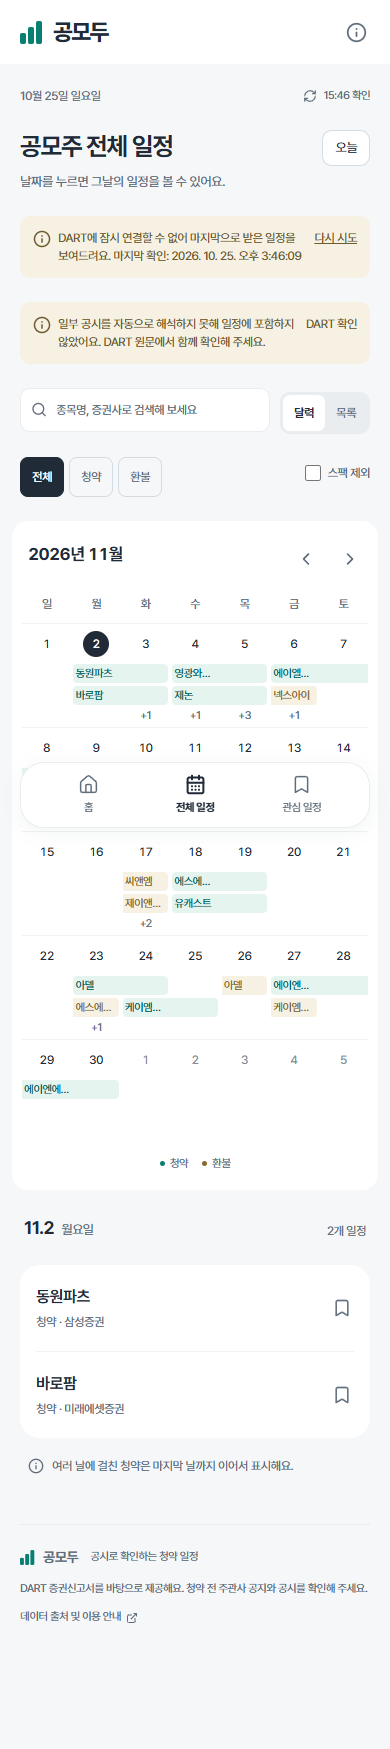
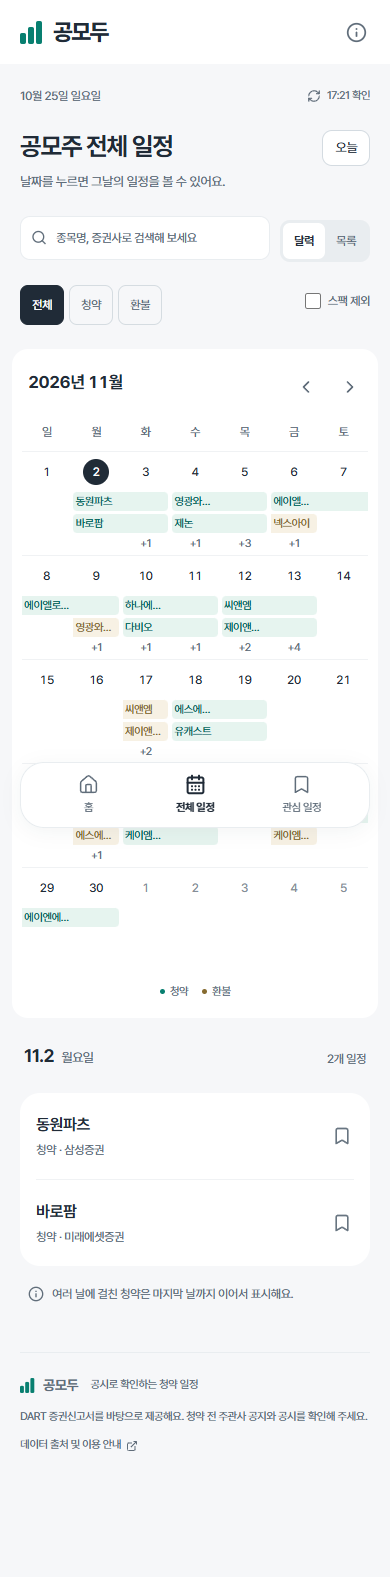
[Docs] 공모 교차 검증·화면 캡처·제출 상태 기록

diff --git a/docs/DART-DATA.md b/docs/DART-DATA.md
@@ -16,23 +16,23 @@
 
 `last_reprt_at=Y`로 최종보고서를 검색해요. 주요정보의 접수번호가 최종 신고서와 같을 때만 그 정보를 사용해요. 실 API에서 ‘발행조건확정’ 신고서와 주요정보의 접수번호가 다른 사례를 확인했어요. 이때 이전 요약을 새 공시에 붙이지 않고, **최종 신고서 원문의 요약 표를 직접 읽어요.** 정정 전·후 표가 함께 있는 경우 마지막 완전한 요약 표를 사용해요. 표를 일관되게 읽지 못하면 원문 확인 대상으로 제외해요.
 
-회사 고유번호와 확인된 최초 제출일로 공모 회차 ID를 만들어요. 정정으로 청약 날짜·접수번호가 바뀌어도 관심 저장 ID와 내보내기 UID는 유지해요. 최초 제출일을 확인하지 못한 정정 공시는 다른 회차와 섞지 않고 제외해요. 기존 회사명만 일치한다고 서로 다른 공모를 연결하지 않아요.
+회사 고유번호와 확인된 최초 제출일로 공모 회차 ID를 만들어요. 정정으로 청약 날짜·접수번호가 바뀌어도 관심 저장 ID는 유지해요. 최초 제출일을 확인하지 못한 정정 공시는 다른 회차와 섞지 않고 제외해요. 기존 회사명만 일치한다고 서로 다른 공모를 연결하지 않아요.
 
 철회 표시 또는 후속 정정 대기 표시가 있는 신고서는 진행 중인 청약으로 노출하지 않아요. 저장된 일정이 최신 결과에서 사라지면 기기 기록을 유지하되 원본 재확인을 안내해요. 앱이 철회 사유까지 판정하는 것은 아니에요.
 
 ## 표시 규칙
 
-- 날짜는 한국 기준이에요. 청약 종료일을 포함해 보여주되 내부 모델과 ICS의 종료일은 다음 날로 저장해요.
-- 원문에 명시된 전체 날짜만 파싱해요. 시작일/종료일이 불명확하거나 상충하면 추정하지 않아요.
+- 날짜는 한국 기준이에요. 청약 종료일을 포함해 보여주되 내부 모델의 종료일은 다음 날로 저장해요.
+- 원문에 명시된 날짜를 파싱해요. `2026.10.22(목)~10.23(금)`처럼 앞에 적힌 연도가 같은 범위에 적용되는 경우는 명확한 월·일을 확인해 읽어요. 시작일/종료일이 불명확하거나 상충하면 추정하지 않아요.
 - `pymd`는 **납입기일**로 표시해요. 값만 복사해 환불일로 바꾸지 않아요. 환불일·상장 예정일은 주요정보 API의 날짜 필드 대신 원문의 명시적 문장·표에서 확인해요. ‘초과 청약증거금은 주금납입기일 당일에 반환’이라고 명시된 경우에만 납입일과 연결하며 `payment-reference` 근거를 남겨요.
 - `slprc`는 **모집(매출)가액**으로 표시해요. 희망 공모가·확정 공모가·최소 증거금으로 일괄 해석하지 않아요. 단위와 확정 여부는 원문에서 확인해야 해요.
 - 원문의 상장공모 근거를 확인해요. 기존 상장사의 주주배정·제3자배정 등은 IPO로 노출하지 않아요.
 - 이전 Google 캘린더 관심 기록은 삭제하지 않아요. ‘이전 출처’라고 구분하며 DART 검증 데이터로 다시 표시하지 않아요.
-- 새 ICS 내보내기에는 공시 접수번호와 DART 원문 URL을 포함해요. 파일에는 정정이 자동 반영되지 않아요.
+- 캘린더 파일 내보내기는 실기기 피드백으로 출시 화면에서 제거했어요.
 
 최종 ‘발행조건확정’ 공시의 ZIP은 변경 부분만 담은 사례가 있어요. 모집 절차 전문이 없으면 회사별 공시 이력을 `last_reprt_at=N`으로 조회해 최초 제출일이 같은 공모의 가장 최근 전문을 찾아요(최대 6개 후보). 이전 공시의 명시적 날짜는 청약기간이 현재와 같을 때만 보완하고, 최신 공시에 해당 날짜 변경·미정 문구가 있으면 보완하지 않아요. 환불을 납입기일과 연결하는 명시적 문구는 최신 납입기일을 사용해요. 근거 접수번호·URL·문장을 이전 원문 그대로 보존해 최신 신고서에서 읽은 것처럼 바꾸지 않아요.
 
-모집 본문 구간의 표 위치를 기록해 정정 전 구간과 발행인 이력의 다른 회사 날짜를 제외해요. 날짜가 서로 충돌하거나 청약 마감 이전·120일 이후이면 추가하지 않아요. 상장 예정일은 확정 상장일을 의미하지 않아요. 브라우저에서 보완하는 증권사 안내 날짜는 `broker-announcement` 출처로 별도 구분하며 [경쟁률·증권사 데이터 규칙](COMPETITION-DATA.md)을 따라요.
+모집 본문 구간의 표 위치를 기록해 정정 전 구간과 발행인 이력의 다른 회사 날짜를 제외해요. 날짜가 서로 충돌하거나 청약 마감 이전·120일 이후이면 추가하지 않아요. 상장 예정일은 확정 상장일을 의미하지 않아요. 경쟁률을 보류한 이번 출시에서는 증권사 응답으로 날짜를 보완하지 않아요.
 
 2026-10-25 추가 검증에서는 DART 청약 28건에 환불 이벤트 25건을 추가했어요. 이 수집 범위에서 DART 원문으로 확인된 상장 예정일은 없었고, iM증권 공식 안내에서 아이엠1호의 상장 예정일 2026-11-04를 별도로 확인했어요. 이 날짜는 DART 근거로 표시하지 않아요.
 
@@ -46,7 +46,7 @@
 
 `.env`에 `DART_API_KEY`를 설정하고 `npm run sync:dart`로 최초 수집할 수 있어요. `npm run dev`의 API도 최초 조회 시 수집을 시작해요. 초기 수집 중에는 HTTP 503 `DART_SYNCING`을 반환하며 화면이 5초 뒤 다시 확인해요. 인증키가 없거나 잘못됐을 때 Google 피드나 예시 데이터로 대체하지 않아요.
 
-정상 결과는 `.cache/dart-schedule.json`에 원자적으로 저장해요. API 재시작 후에도 마지막 결과를 읽어요. 1시간 이내에는 같은 결과를 사용하고, 만료 후 조회 시 백그라운드 수집을 시작해요. 새 수집이 실패하면 마지막 정상 결과와 원래 확인 시각을 유지하며 `stale: true`를 표시해요. 공시가 일부 불명확한 경우 포함하지 못한 공시가 있음을 화면에서 안내해요.
+정상 결과는 `.cache/dart-schedule.json`에 원자적으로 저장해요. API 재시작 후에도 마지막 결과를 읽어요. 1시간 이내에는 같은 결과를 사용하고, 만료 후 조회 시 백그라운드 수집을 시작해요. 새 수집이 실패하면 마지막 정상 결과와 원래 확인 시각을 유지하며 `stale: true`를 표시해요. 불명확한 공시는 제외하고 `coverage`에 누락 범위를 남겨요. 홈의 공시 해석 누락 배너는 사용자 요청으로 제거했어요.
 
 `GET /api/status`는 설정 여부·수집 여부·진행 건수·마지막 수집 시각·오류 코드만 반환해요. 인증키와 인증키가 들어간 요청 URL은 반환하지 않아요. OpenDART의 013(조회 없음)을 인증 오류·한도 초과·점검과 구분해요. 회사 간 요청에 기본 200ms 간격을 두고, 동시 사용자 요청은 하나의 수집으로 합쳐요.
 
@@ -54,6 +54,11 @@
 
 기본 조회 범위는 최근 180일 접수 공시예요. `DART_LOOKBACK_DAYS`로 1~365일 범위에서 바꿀 수 있어요. 전체 회사 공시 검색은 3개월 제한에 맞춰 89일씩 나눠요. API 주요정보의 기간 기준은 **최초 접수일**이므로 오래전에 제출한 공시의 최근 정정은 요약에서 빠질 수 있어요. 이때 최종 원문 표로 확인하거나, 해석이 불가능하면 제외해요.
 
-현재 후보는 법인 구분 E(기타), N(코넥스)의 지분증권 신고서예요. 이미 유가증권/코스닥 회사로 분류된 과거 IPO의 완전한 이력 서비스가 아니에요. 이전 달 달력이 모든 과거 IPO를 포함한다고 해석하면 안 돼요. 또한 공시의 ‘청약기일’이 일반투자자 청약 대상인지, 증권사별 접수 시간이 무엇인지까지 자동 보증하지 않아요. 원문과 증권사 안내로 최종 확인해야 해요.
+현재 후보는 E/N/K/Y 구분 없이 지분증권 신고서를 확인해요. 현재 이미 상장한 K/Y 회사도 과거 IPO 공시를 가질 수 있기 때문이에요. 주주배정·제3자배정 등은 먼저 제외하고 실제 모집 본문의 IPO 근거로 판별해요. 이전 달 달력이 모든 과거 IPO를 포함한다고 해석하면 안 돼요. 또한 공시의 ‘청약기일’이 일반투자자 청약 대상인지, 증권사별 접수 시간이 무엇인지까지 자동 보증하지 않아요. 원문과 증권사 안내로 최종 확인해야 해요.
 
 2026-10-25 첫 전환 검증에서는 31개 후보 공시 중 청약 일정 28개(다가오는 일정 21개)를 읽었어요. 3개는 요약 표·최초 제출일·국내 상장공모 여부를 확인하지 못해 제외했어요. 이 수치는 당시 수집 결과이며 고정된 서비스 수치가 아니에요. DART 출처 사용이 앱인토스 입점 승인을 보장하지는 않아요.
+
+
+## 실기기 피드백 후 데이터 검증 보완
+
+최초 제출일 레이블 뒤 첫 날짜만 읽어 긴 공백과 정정 이력 날짜를 섞지 않도록 고쳤어요. 인수인 역할의 `인수` 표기도 인식해 디티에스의 유진증권 누락을 보완했어요. 최신 부분 정정에 IPO 근거 문구가 없더라도 같은 최초 제출일로 검증한 전문에서 근거를 찾을 수 있으며 `disclosure.ipoEvidence`에 별도 공시 출처를 보존해요. 날짜·가격은 이와 별도로 최신 공시에서 검증해야 하며, 요약 접수번호가 다르면 이전 공시의 값을 최신 값으로 덮어쓰지 않아요. [외부 일정 대조 검증](DATA-VALIDATION.md)에 현재 확인 범위와 잔여 한계를 정리했어요.

diff --git a/docs/DATA-VALIDATION.md b/docs/DATA-VALIDATION.md
@@ -1,0 +1,33 @@
+# 공모주 일정 대조 검증 · 2026-10-25
+
+공모주 일정 사이트를 찾은 뒤 실제 공개 표와 DART 수집 결과를 대조했습니다. 외부 사이트의 값을 운영 데이터에 복사하지 않았습니다. 앱의 일정·가격·주관사는 DART 공시에서 확인한 값만 사용합니다.
+
+## 확인한 사이트와 범위
+
+| 출처 | 대조 범위 | 결과 |
+|---|---|---|
+| [38커뮤니케이션 1페이지](https://www.38.co.kr/html/fund/index.htm?o=k), [2페이지](https://www.38.co.kr/html/fund/index.htm?o=k&page=2) | 2026-10-01~2026-12-11 청약 35종목, 청약 시작/종료·공모가 또는 신고서 모집가액·인수인 | 34종목 일치, 진코스텍 1종목 미포함 |
+| [오늘의종목 10월 일정](https://todaystk.kr/ipo/2026-10) | 일반 IPO·스팩 13종목의 청약 기간·공모가·주관사 | 13종목 일치. 코넥스 이전상장 진코스텍은 이 목록의 13종목에 포함되지 않음 |
+| [공모주로그](https://www.sonnimlab.com/schedule/) | 겹치는 종목의 청약 기간·주관사 교차 확인 | 검색 결과와 원문 사이에 갱신 차이가 있어 확정 가격·진행 상태는 최신 DART를 우선 |
+| [IPOstock](https://www.ipostock.co.kr/sub03/ipo04.asp) | 접속 시도 | 조회 실패. 검증 성공으로 계산하지 않음 |
+
+회사명 변경·스팩 정식명과 약칭, `㈜`/`주식회사`, IBK/아이비케이·KB/케이비·유진증권/유진투자증권 같은 표기를 정규화해 비교했습니다. 청약 종료일은 외부 표의 포함 날짜와 앱 내부의 제외 날짜를 구분했습니다. 경쟁률은 보류 범위이므로 대조·표시하지 않습니다.
+
+## 발견하고 고친 문제
+
+| 문제 | 원인과 보완 | 공식 근거 |
+|---|---|---|
+| 영광 누락 | `2026.10.22(목)~10.23(금)`의 종료 연도 생략을 인식하지 못함. 같은 범위에 적힌 연도와 명확한 월·일을 읽도록 수정 | [DART 최종 공시](https://dart.fss.or.kr/dsaf001/main.do?rcpNo=20261021000239) |
+| 하나에어로다이내믹스 누락 | 최초 제출일 뒤 긴 공백·정정 이력의 다른 날짜가 섞임. 레이블 직후 한 날짜만 읽도록 수정 | [DART 정정 공시](https://dart.fss.or.kr/dsaf001/main.do?rcpNo=20261016000159) |
+| 최근 상장한 IPO 누락 | DART의 현재 법인 구분 K/Y를 일괄 제외함. 현재 상장 여부 대신 실제 공모 근거로 검증 | OpenDART 공시 목록·지분증권 주요정보·각 공시 원문 |
+| 디티에스 누락·인수인 일부 누락 | 부분 정정의 IPO 근거를 같은 최초 제출일의 전문으로 검증하고 별도 출처를 보존. `인수` 역할의 유진증권도 인식 | [DART 최종 공시](https://dart.fss.or.kr/dsaf001/main.do?rcpNo=20261012000308) |
+
+## 현재 수집 결과와 남은 한계
+
+- 180일 접수 공시 후보 100건을 검토한 결과 **청약 61건·환불 52건, 총 113건**입니다. 이 숫자는 수집 시점의 결과이며 고정 서비스 수치가 아닙니다.
+- 상장 예정일은 DART 원문으로 확인된 이벤트가 없습니다. 외부 사이트에 상장일이 있어도 DART 근거가 확인된 것처럼 추가하지 않았습니다.
+- 진코스텍은 최신 부분 정정에 필요한 일정·가격 표가 없고 요약 API의 접수번호가 이전 공시여서 제외했습니다. 이전 신고서의 날짜·가격을 최신 값으로 표시하지 않습니다. 이 한계를 해결했다고 기록하지 않습니다.
+- 과거 공모 4건(피스피스스튜디오·케이앤에스아이앤씨·엔에이치스팩34호·브릴스)은 현재 수집 결과에서 주관사를 확인하지 못했습니다. 상세에서는 원문 확인으로 안내하고, 이미 끝난 이 기록 때문에 홈에 전체 경고 배너를 띄우지 않습니다. 다가오는 청약의 주관사·가격 누락은 없습니다.
+- 검증 불가능한 후보는 `coverage`에 남깁니다. 홈의 공시 해석 누락 배너는 사용자 요청으로 제거했으며 데이터 자체의 검증 기준을 낮추지 않았습니다.
+
+대조 검증은 모든 과거 IPO·일반투자자 자격·청약 접수 시간을 보증하지 않습니다. 외부 사이트의 상장일·경쟁률·납입일을 앱에 무조건 덧붙이지 않으며, 환불일은 원문 명시 또는 납입일 당일 반환 문구가 확인되는 경우만 표시합니다.

diff --git a/docs/RELEASE.md b/docs/RELEASE.md
@@ -2,16 +2,18 @@
 
 ## 2026-10-25 상태
 
-- 콘솔 등록명 **공모두**, appName **gongmodu**로 코드·ICS 파일명·CORS 설정을 맞췄습니다.
+- 콘솔 등록명 **공모두**, appName **gongmodu**로 코드·CORS 설정을 맞췄습니다.
 - 사용자 요청으로 실시간 경쟁률·청약 비교·가정 계산을 출시 화면과 서버 경로에서 제외했습니다. 연구 코드는 보류 상태로 보존합니다.
 - BlueCL 서버의 Node 24 전용 사용자 서비스가 실행 중이며 HTTPS 경로를 연결했습니다.
 - `https://bluecl.cloud/gongmodu/api/health`, `/api/status`, `/api/schedule`에서 HTTP 200을 확인했습니다. 토스 앱 origin의 CORS 응답도 확인했습니다.
-- 실제 DART 일정 **53건(청약 28건·환불 25건)**, 상장 예정일 원문 확인 0건, 주관사·가격 누락 0건입니다. 최근 180일 접수 공시 후보 31건 중 검증되지 않은 3건은 제외했습니다. 완전한 전체 IPO 목록이라는 의미는 아닙니다.
-- 단위 테스트 32개, 모바일·데스크톱 사용자 흐름 16개, 타입 검사·웹 빌드가 통과했습니다.
+- 실제 DART 일정 **113건(청약 61건·환불 52건)**, 상장 예정일 원문 확인 0건입니다. 최근 180일 접수 공시 후보 100건을 검토했습니다. 과거 4개 공모의 주관사가 미확인이며 다가오는 청약의 주관사·가격 누락은 없습니다. 완전한 전체 IPO 목록이라는 의미는 아닙니다.
+- 단위 테스트 35개, 모바일·데스크톱 사용자 흐름 18개, 타입 검사·웹 빌드가 통과했습니다.
 - 실제 HTTPS API 주소를 넣은 `gongmodu.ait`를 생성했고 DART 키가 공개 빌드·스냅샷·번들에 포함되지 않았음을 검사했습니다.
-- 번들 deploymentId: `01a1720b-1519-784d-8673-3246f65dad55`.
+- 번들 deploymentId: `01a17226-6ddd-73aa-abdc-04590b2ffb92`.
 - 앱인토스 콘솔에 번들을 업로드했습니다. 앱 소개·출시 노트·분류·검색어·600×600 로고와 주요 기능을 입력했습니다.
-- **최종 검토 요청은 아직 완료되지 않았습니다.** 토스앱 테스트 상태와 운영자 확인·책임 동의가 남아 있습니다. 실제 iOS/Android 기기 검증을 수행했다고 표시하지 않습니다.
+- **최종 검토 요청은 아직 완료되지 않았습니다.** 사용자가 초기 버전의 토스앱 실행을 확인했고, 수정 후 제출과 운영자 확인·책임 동의에 승인했습니다. 수정 버전 `20261025-2`의 검토 요청을 시도했으나 콘솔이 “토스앱 테스트를 먼저 진행해주세요”로 차단했습니다. 현재 수정 버전의 QR을 열어 실행 확인을 기다리고 있습니다. 실제 iOS/Android 양쪽의 모든 동작을 검증했다고 표시하지 않습니다.
+
+실기기 피드백으로 홈 달력을 상단에 배치하고 제목을 한 줄로 줄였으며, 캘린더 파일 내보내기와 공시 해석 누락 배너를 제거했습니다. [외부 일정 대조 검증](DATA-VALIDATION.md)에서 35종목 중 34종목 일치를 확인했고 진코스텍 미포함을 별도로 기록했습니다.
 
 ## 배포
 
@@ -21,7 +23,7 @@
 
 ## 토스 최종 확인 항목
 
-1. 콘솔의 토스앱 테스트로 실제 기기에서 일정 조회·상세·관심 저장·ICS 내보내기·뒤로가기·홈·Safe Area를 확인합니다.
+1. 콘솔의 토스앱 테스트로 실제 기기에서 일정 조회·상세·관심 저장·뒤로가기·홈·Safe Area를 확인합니다.
 2. 카테고리·설명·로고·고객문의 연락처가 운영 정보와 일치하는지 확인합니다.
 3. 콘솔의 서비스 오픈 가능 여부·필요 인허가·위법 행위 관련 확인과 파트너 책임/손해 보상 동의는 운영자가 내용을 확인해야 합니다.
 4. 검토 요청 후 성공 화면과 요청 상태로 접수를 확인합니다. 업로드·임시저장만으로 제출 완료라고 기록하지 않습니다.

diff --git a/docs/DESIGN-REVIEW.md b/docs/DESIGN-REVIEW.md
@@ -56,3 +56,13 @@
 - 경쟁률 메뉴·상세 위젯·API 폴링·서버 경쟁률 경로를 제거했어요. 관련 연구 코드는 보류 상태로 보관해요.
 - 단위 테스트 32개, 모바일/데스크톱 브라우저 사용자 흐름 16개가 통과했어요. 보류 경로 직접 진입과 API 미호출도 확인했어요.
 - home/calendar/detail 스크린샷을 세 화면 크기에서 새로 촬영했고 런타임 오류가 없었어요. comparison/scenario 이미지는 이전 연구 기록이에요.
+
+
+## 토스 실기기 피드백 반영
+
+- 사용자가 토스에서 초기 버전 실행을 확인했고 홈의 달력 위치·제목·내보내기·누락 안내 배너 수정을 요청했어요.
+- 기존 pastel-consumer 방향(seed 2140653618), 초록 브랜드와 Pretendard를 유지했어요. 새로운 스타일을 다시 추첨하지 않고 실제 일정이 우선 보이도록 순서를 바꿨어요.
+- 홈의 질문은 “이번 달 공모주 일정은 언제인가요?”이며, 월간 달력을 DOM 첫 영역에 두고 날짜별 목록을 바로 연결했어요. 제목은 한 줄, 모바일 22px이에요.
+- 내보내기·토스 파일 저장·내보내기 안내를 제거했고, 기존 관심 저장 키는 보존했어요. 공시 해석 누락 배너를 제거했으며 원문 링크·오류·stale 표시는 유지해요.
+- 프로덕션 빌드의 1440/768/390px 검사에서 FAIL 0개. 11~12px 달력 날짜/종목 라벨 때문에 작은 글씨 비중 경고가 있어요. 달력은 최소 11px을 유지하고 상세에서 전체 종목명을 확인해요. 두 번째 경고는 달력과 우측의 쌓인 패널을 개별 카드로 비교한 높이 차이이며 실제 두 열 전체의 하단은 비슷해요.
+- 35개 데이터 단위 테스트, 18개 모바일/데스크톱 사용자 흐름을 검증해요. 달력의 첫 화면 노출, 날짜 선택, 내보내기 미노출도 포함해요.

diff --git a/docs/PRODUCT-PLAN.md b/docs/PRODUCT-PLAN.md
@@ -1,4 +1,4 @@
-> 2026-10-25 출시 결정: 앱 이름은 공모두(gongmodu), 실시간 경쟁률·청약 비교·가정 계산은 보류합니다. 현재 범위는 DART 공시 기반 일정·관심 저장·ICS 내보내기입니다. 아래의 확장 기능과 과거 이름 공모아는 기획 이력입니다.
+> 2026-10-25 출시 결정: 앱 이름은 공모두(gongmodu), 실시간 경쟁률·청약 비교·가정 계산은 보류합니다. 현재 범위는 홈 상단의 월간 달력과 DART 공시 기반 일정·관심 저장입니다. 실기기 피드백으로 ICS 내보내기는 제거했습니다. 아래의 확장 기능과 과거 이름 공모아는 기획 이력입니다.
 
 # 공모아: 기능 기획과 UX 설계
 
